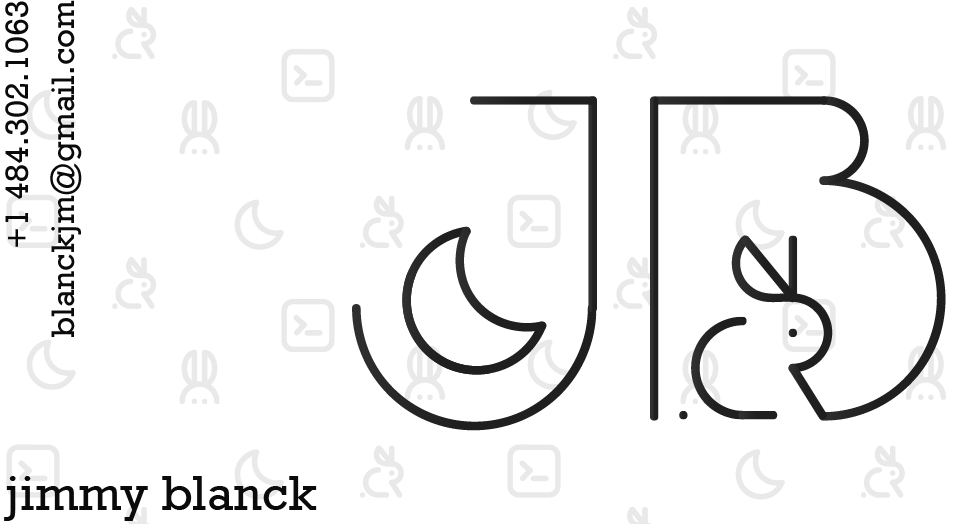
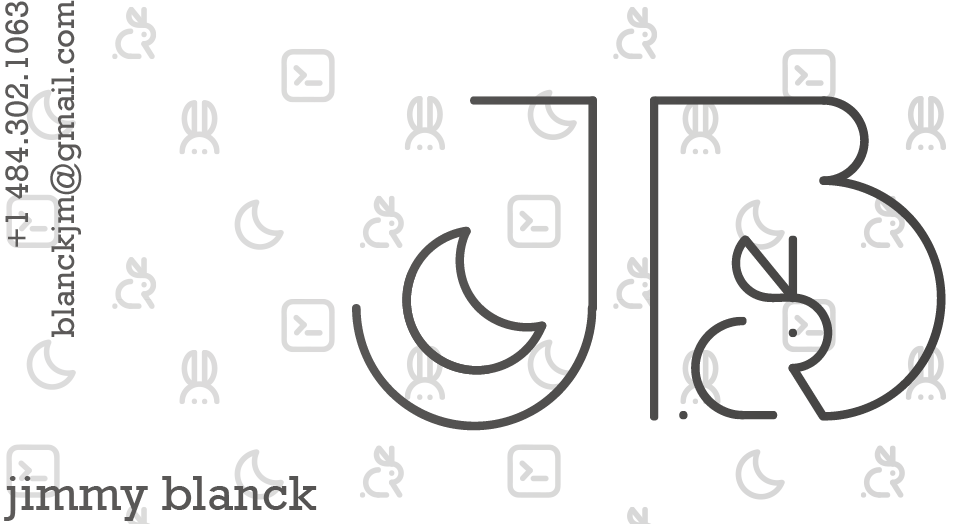
updated colors

diff --git a/style.css b/style.css
@@ -60,7 +60,7 @@ a li {
 
 }
 
-textarea {
+textarea, input {
     font-family: 'Asap', sans-serif;
     color: #171b1d;
     background-color: transparent;
@@ -74,37 +74,19 @@ textarea {
     transition: 0.3s;
     height: 80px;
     margin:2px;
-    width: 45%;
+    width: 49%;
     overflow-y: hidden;
 }
 
-textarea:focus {
+textarea:focus, input:focus {
     background-color: white;
     color: black;
+    box-shadow: inset 0 0 0 1px transparent;
     outline: 2px dotted #171b1d;
 }
 
-input {
-    font-family: 'Asap', sans-serif;
-    color: #171b1d;
-    background-color: transparent;
-    font-size: 24px;
-    overflow: auto;
-    border: 6px solid #ebf1dd;
-    outline: 2px dotted #ebf1dd;
-    box-shadow: inset 0 0 0 1px #171b1d;
-    resize: none;
-    padding: 20px;
-    transition: 0.3s;
-    height: 80px;
-    margin:2px;
-
-}
-
-input:focus {
-    background-color: white;
-    color: black;
-    outline: 2px dotted #171b1d;
+textarea, input {
+    border-radius: 10px;
 }
 
 .icon {
@@ -267,54 +249,12 @@ body.light .mn:before {
     flex-direction: row;
     justify-content: center;
     position: relative;
-    background: #ebf1dd;
+    background: #f1eddf;
     grid-area: terminal;
     overflow: hidden;
     padding: 40px;
     opacity: 85%;
 }
-
-/*middle wave*/
-.wave1 {
-  width: 1000px;
-  height: 1025px;
-  position: absolute;
-  top: -50%;
-  right: -60%;
-  margin-left: -500px;
-  margin-top: -500px;
-  border-radius: 40%;
-  background: #4d5f66;
-  translate: rotate(180deg);
-  opacity: 10%;
-  animation: wave 15s infinite linear;
-}
-
-.wave2 {
-  width: 1000px;
-  height: 1025px;
-  position: absolute;
-  top: -90%;
-  right: -75%;
-  margin-left: -500px;
-  margin-top: -500px;
-  border-radius: 40%;
-  background: #4d5f66;
-  translate: rotate(180deg);
-  opacity: 5%;
-  animation: wave2 15s infinite linear;
-}
-
-@keyframes wave {
-  from { transform: rotate(180deg)}
-  from { transform: rotate(270deg)}
-}
-
-@keyframes wave2 {
-  from { transform: rotate(360deg);}
-  from { transform: rotate(180deg);}
-}
-
 
 .kofi-form {
     display: flex;
@@ -522,9 +462,15 @@ ul a {
     border-radius: 10px;
 }
 
+
+
 .navbar ul a:hover {
-    background-color: #f8f8f8;
+    background-color: #f6faf0;
     border-radius: 10px;
+}
+
+.navbar ul a:hover li {
+    color:  #b1c8a9;
 }
 
 li {
@@ -681,7 +627,6 @@ li {
     align-items: center;
     background: white;
     transition: 0.3s;
-    border: 1px solid rgba( 255, 255, 255, 0.18 );
 }
 
 .contact {
@@ -1131,17 +1076,6 @@ canvas:hover h1 {
     .loader svg {
         scale: 1;
     }
-
-    .wave1 {
-        display: none;
-        right: -50%;
-        top: 50%;
-    }
-    .wave2 {
-        display: none;
-        top: 25%;
-    }
-
     canvas {
         display: none;
     }

diff --git a/index.html b/index.html
@@ -21,11 +21,6 @@
         <div class = "hero">
 
             <div class = "form" id = "widget">
-                <div class = "waves" style = "overflow:hidden;">
-                <div class = "wave1"></div>
-                <div class = "wave2"></div>
-                </div>
-
                 <div style = "z-index:1;background-image:url('images/business_card.png');height: 100%;width:100%;background-size: contain;background-repeat: no-repeat;margin:auto;position: relative;padding: 0;">
                 </div>
             </div>
@@ -114,6 +109,7 @@
             <div class = "photo" style = "background-position:center;background-image: url('images/ang_jacks.png');"></div>
             <div class = "photo" style = "background-position:center;background-image: url('images/genie.png');"></div>
             <div class = "photo" style = "background-position:center;background-image: url('images/mixotic.png');"></div>
+            <div class = "photo" style = "background-position:center;background-image: url('images/iroha.png');"></div>
         </div>
         
         <!--
@@ -173,7 +169,7 @@
 
             <input type="tel" id="phone" name="phone" class = "phone-number" pattern="[0-9]{3}-[0-9]{3}-[0-9]{4}"
              placeholder = "Phone Number"
-            style = "width:50%;">
+            style = "width:50%;" maxlength = "15">
             <textarea class = "Message" placeholder="message" style = "width: 50%;height:25%;"></textarea>
 
             <a href = "#contact">
